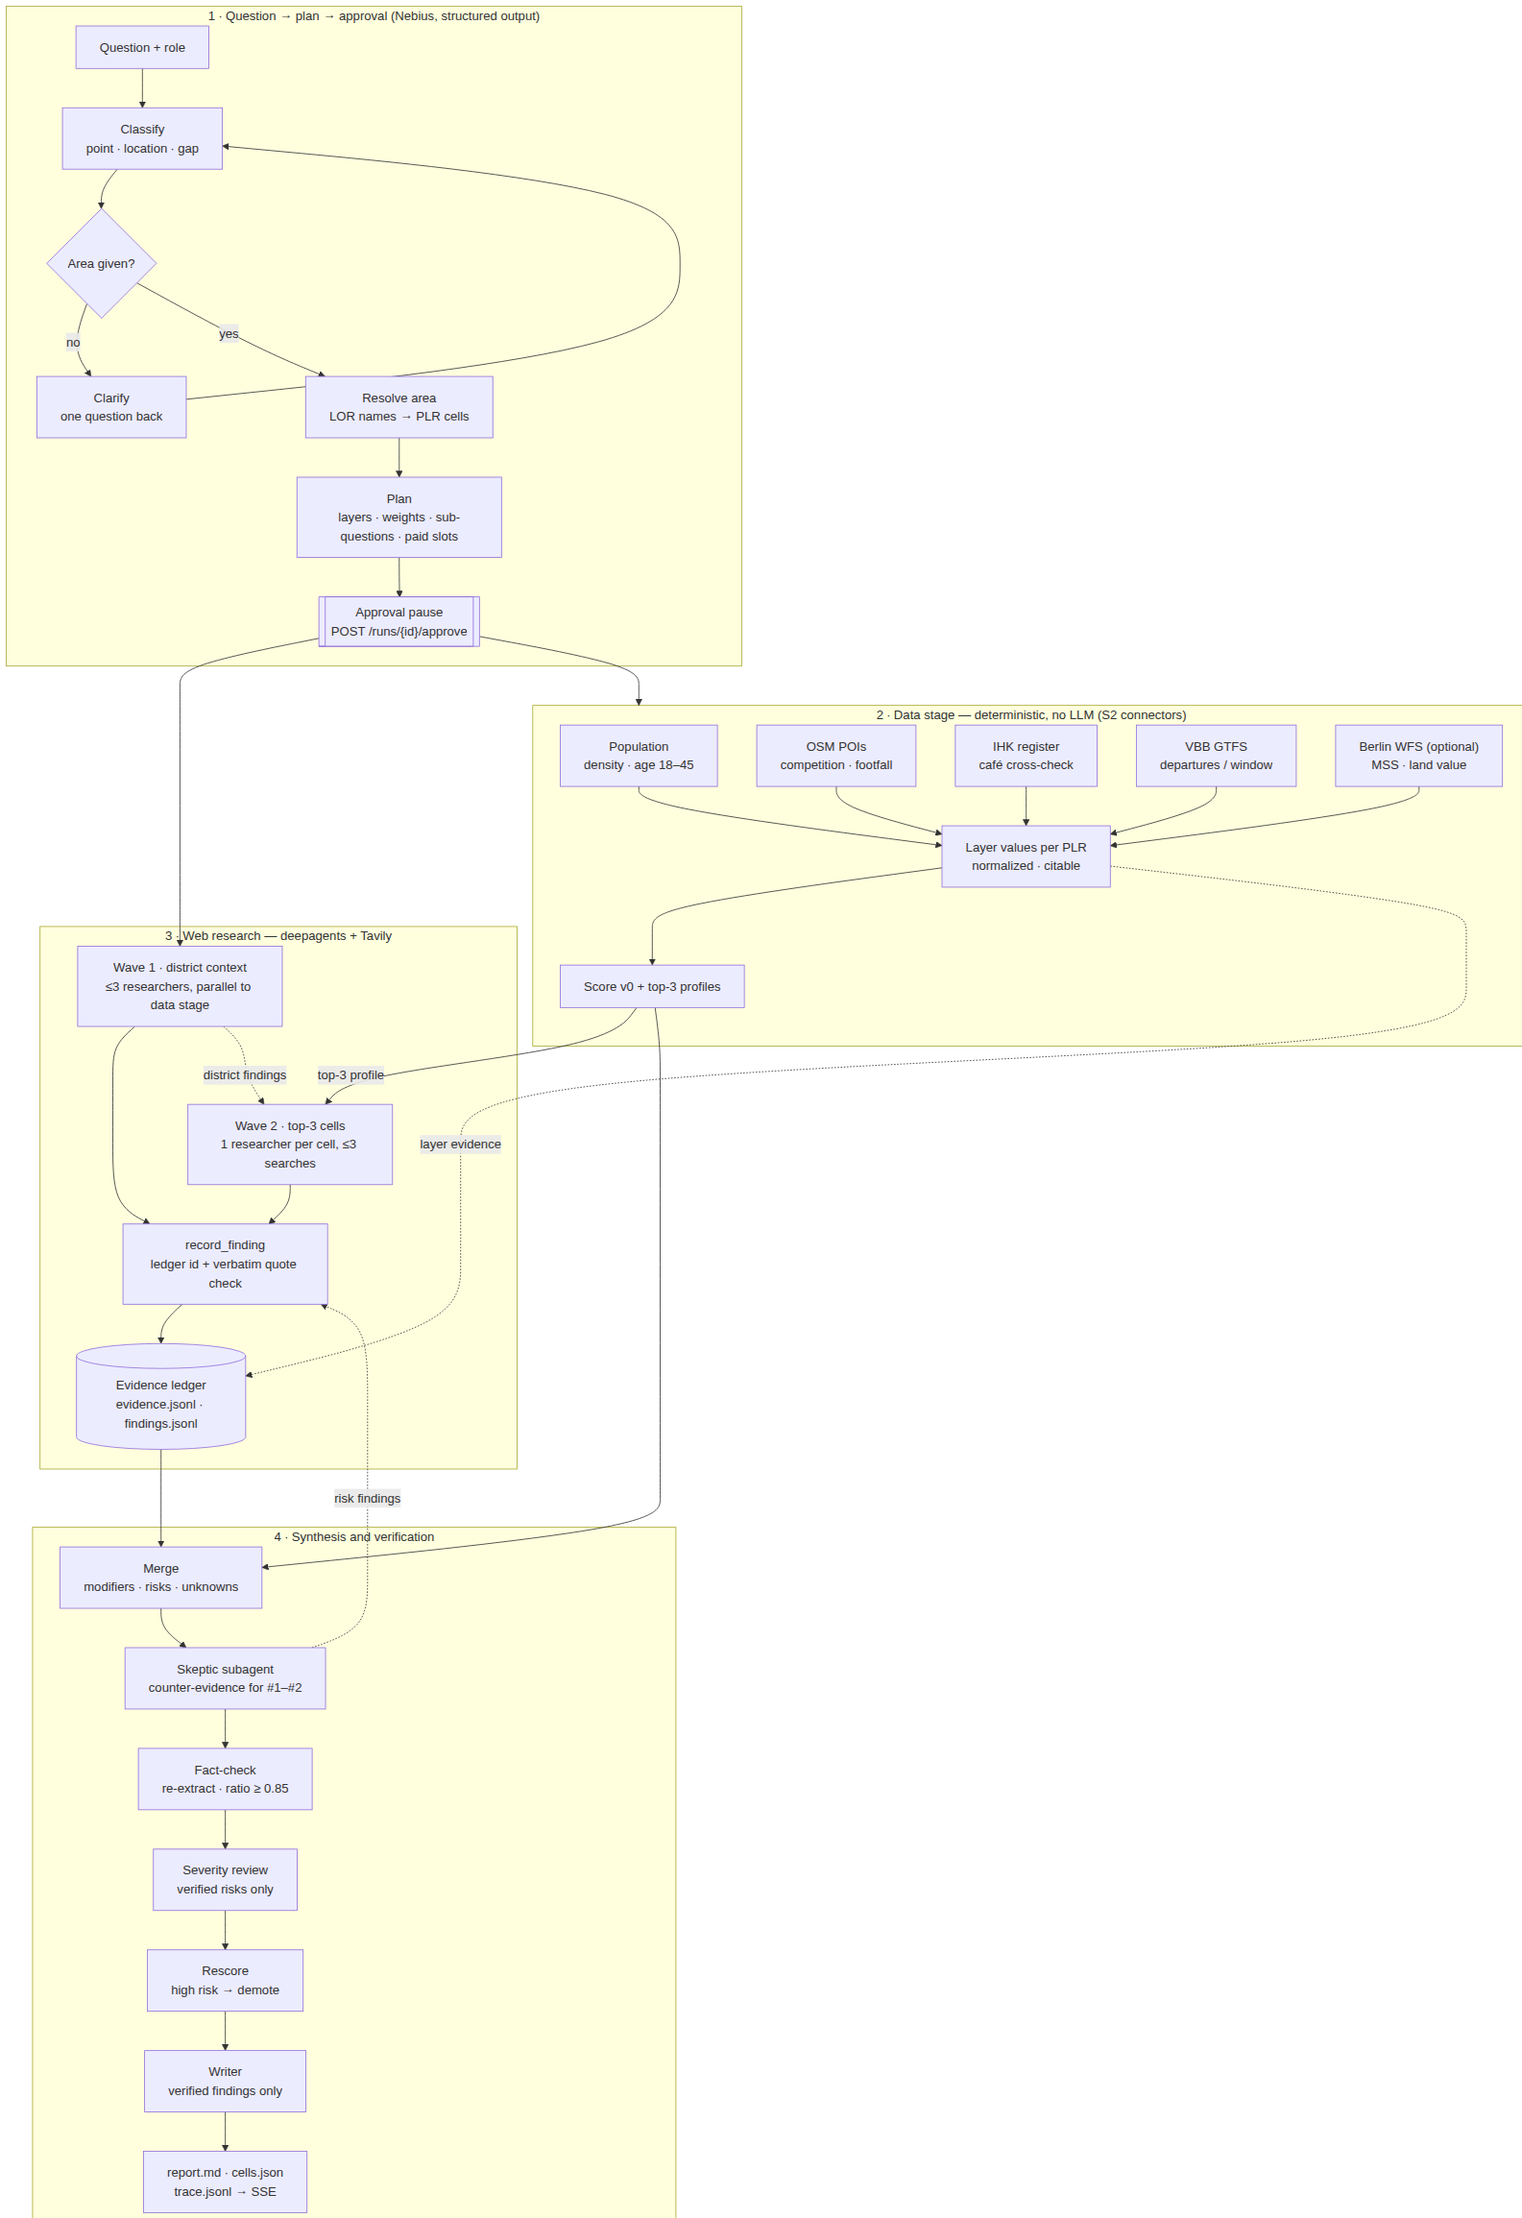
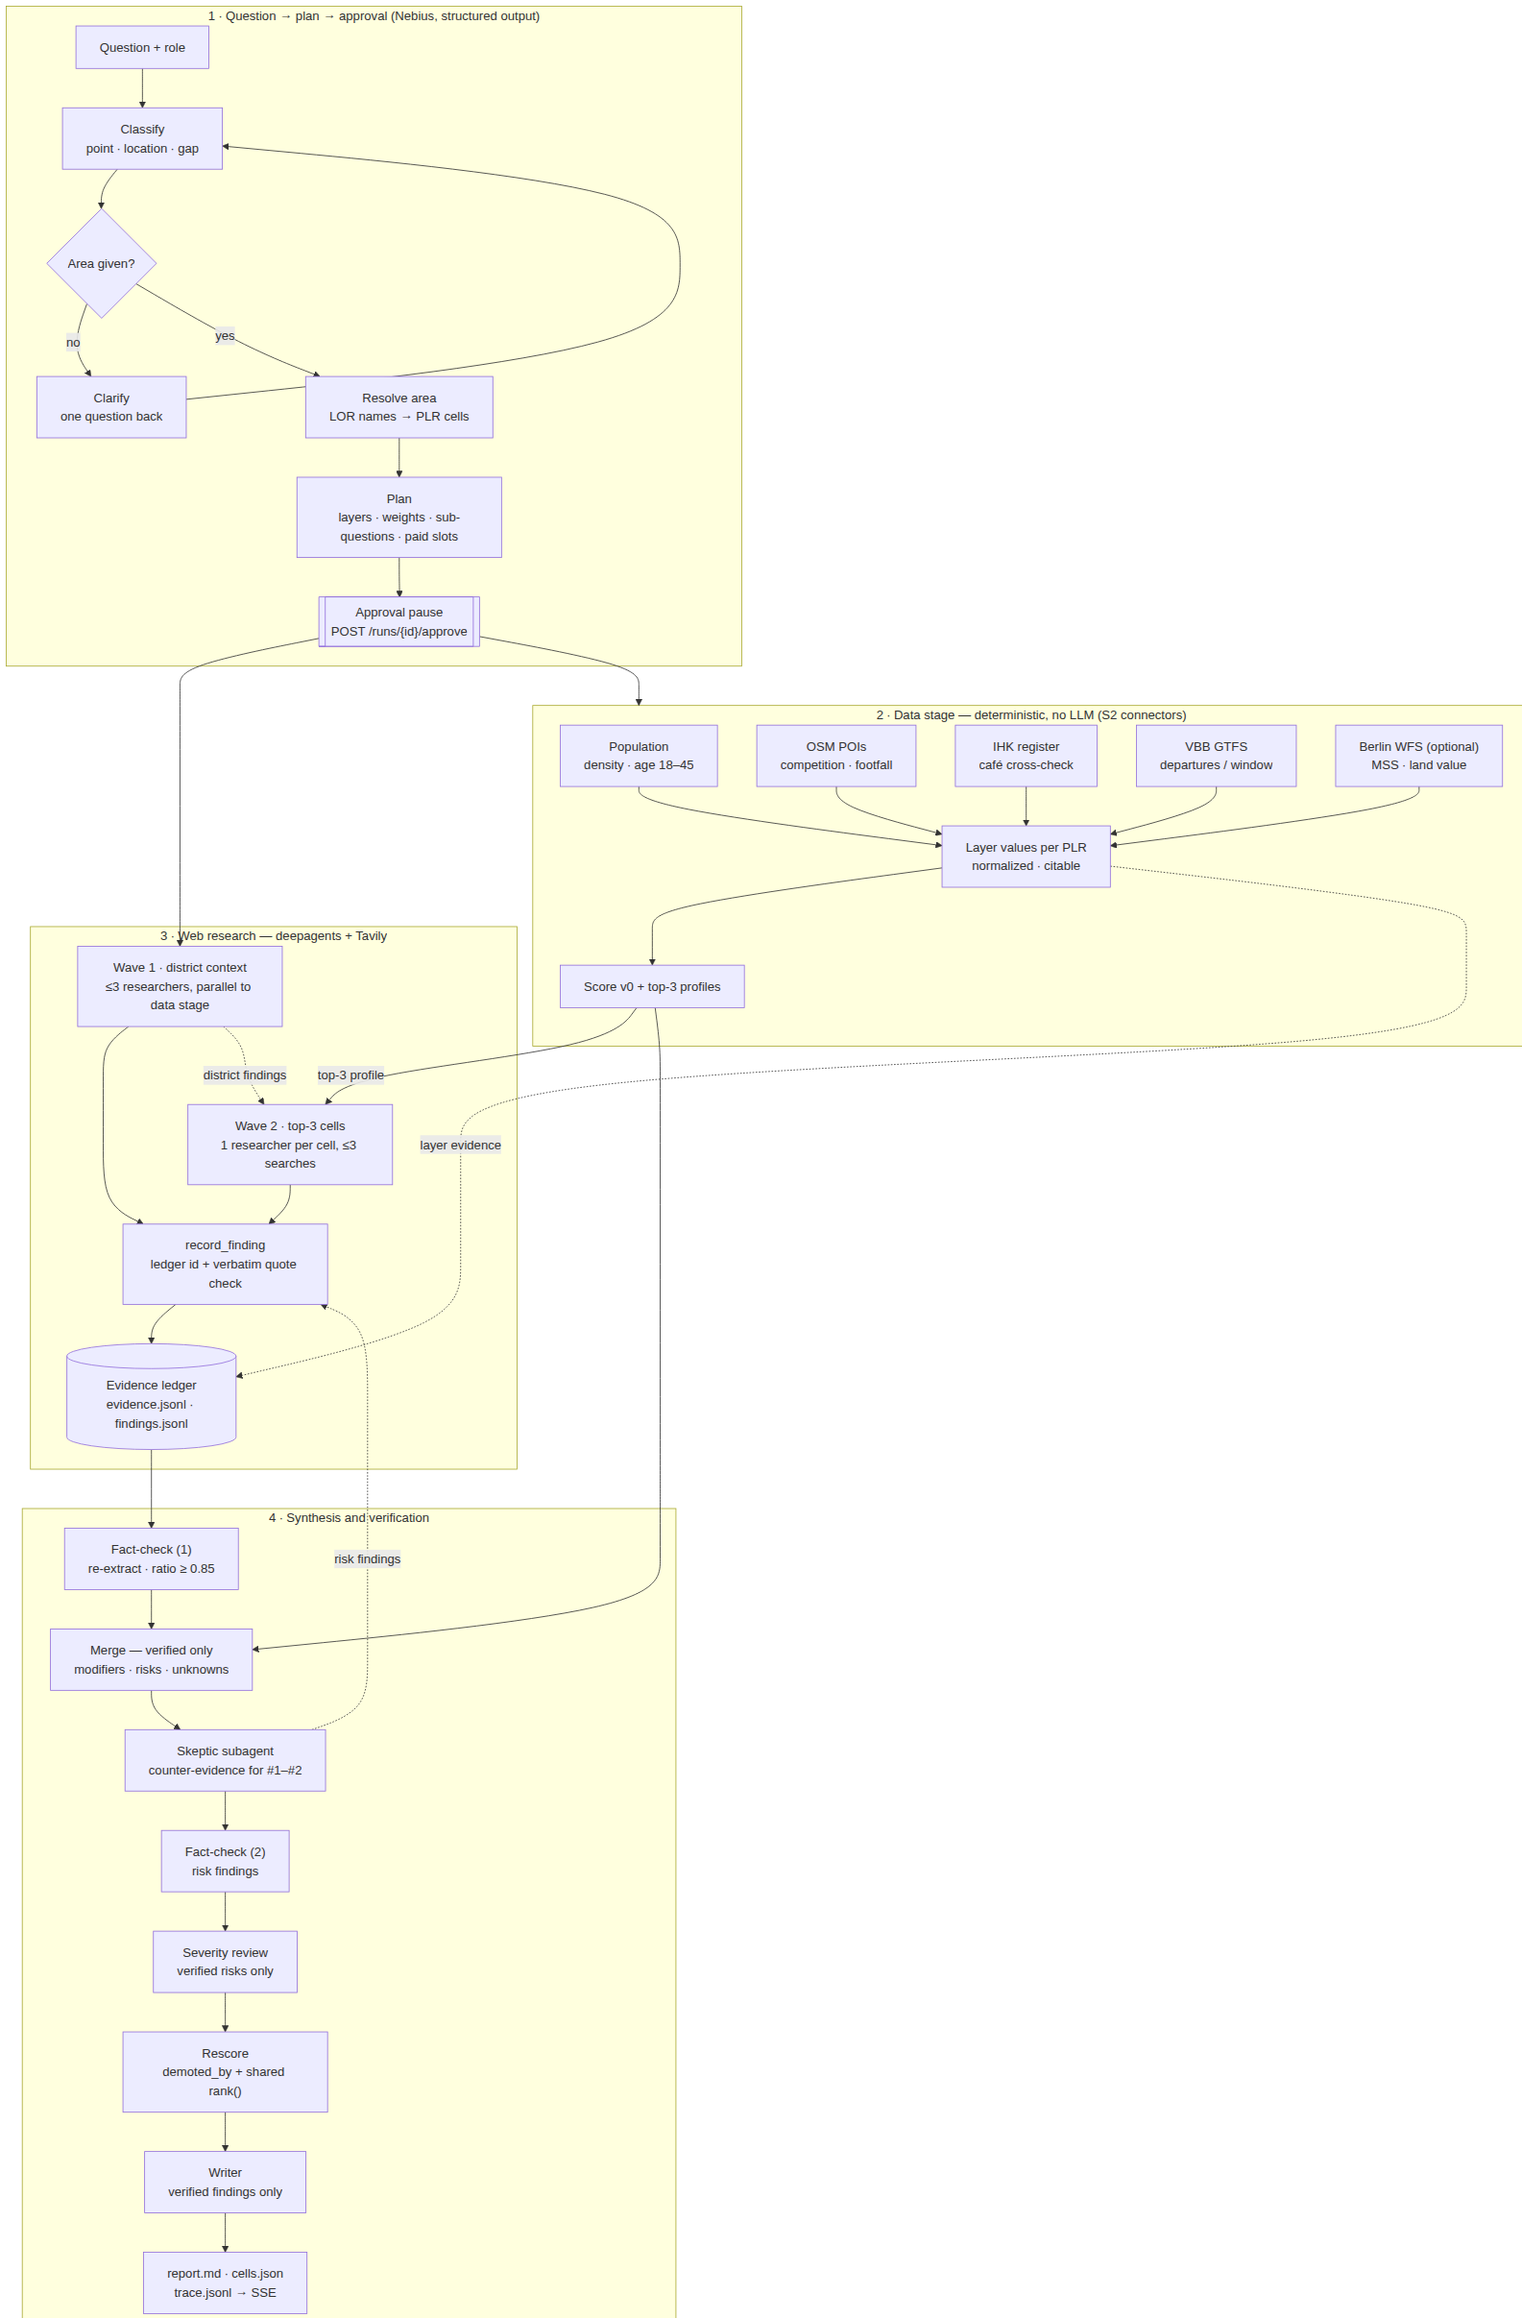
docs: address review — run tokens, area correction at approval, untrusted content, merge after fact-check, persistent demotion rule

diff --git a/docs/01_Architecture/Deep_Research_Spec.md b/docs/01_Architecture/Deep_Research_Spec.md
@@ -58,14 +58,14 @@ flowchart TB
     RF --> L[("Evidence ledger")]
   end
   subgraph P4["4 · Synthesis and verification"]
-    M["Merge"] --> SK["Skeptic"] --> FC["Fact-check"] --> RV["Severity review"] --> RS["Rescore"] --> WR["Writer"] --> OUT["report.md · cells.json · trace"]
+    FC1["Fact-check findings"] --> M["Merge (verified only)"] --> SK["Skeptic"] --> FC2["Fact-check risks"] --> RV["Severity review"] --> RS["Rescore"] --> WR["Writer"] --> OUT["report.md · cells.json · trace"]
   end
   AP --> P2
   AP --> W1
   SC -- "top-3 profile" --> W2
   W1 -. "district findings" .-> W2
   LV -. "layer evidence" .-> L
-  L --> M
+  L --> FC1
   SC --> M
   SK -. "risk findings" .-> RF
 ```
@@ -83,29 +83,32 @@ flowchart TB
 | 5 Data stage | S2 snapshots | layer values per PLR, normalization, score v0, OSM↔IHK cross-check | top-3 profiles → wave 2; layers → ledger; `cells.json` | no |
 | 6a Wave 1 | sub-questions + PLR list | search → extract → `record_finding` | future / risk / fact findings → merge, wave 2 | yes, agent |
 | 6b Wave 2 | top-3 profile + wave-1 findings | targeted neighbourhood research | confirms / contradicts data → merge | yes, agent |
-| 7 Merge | findings + cell values | modifiers, risks, unknowns (rules §7) | `score_future`, skeptic target | no |
-| 8 Skeptic | #1–#2 with evidence | counter-evidence search | risk findings → fact-check | yes, agent |
-| 9 Fact-check | all findings | re-extract, quote ratio ≥ 0.85; recompute layers from snapshot | only `verified` → review, writer | no |
-| 10 Severity review | verified risks | severity high/medium/low with ledger ids | rescore | yes, structured |
-| 11 Rescore | severities | high → demote one place | final ranking, `rescore` event | no |
-| 12 Writer | verified findings + cells | summary + per-cell reasons | `report.md`, dashboard | yes, structured |
+| 7 Fact-check (1) | wave-1/2 findings + dataset entries | re-extract, quote ratio ≥ 0.85; recompute layers from snapshot | only `verified` → merge | no |
+| 8 Merge | **verified** findings + cell values | modifiers, risks, unknowns (rules §5.4); `build_cells` | `cells.json` v1, skeptic target | no |
+| 9 Skeptic | #1–#2 of v1 with evidence | counter-evidence search | risk findings → fact-check (2) | yes, agent |
+| 10 Fact-check (2) | skeptic risk findings | same as (1) | verified risks → review | no |
+| 11 Severity review | verified risks | severity high/medium/low with ledger ids | rescore | yes, structured |
+| 12 Rescore | severities | `demoted_by` on the cell, deterministic rank rule (§5.5) | `cells.json` final, `rescore` event | no |
+| 13 Writer | verified findings + final cells | summary + per-cell reasons | `report.md`, dashboard | yes, structured |
 
 ## 4. Run lifecycle and HTTP API
 
 ```text
 created → classifying → (needs_clarification ↺) → planning → awaiting_approval
-        → approved → researching{data, wave1, wave2} → reviewing{merge, skeptic, factcheck, review, rescore}
+        → approved → researching{data, wave1, wave2} → reviewing{factcheck, merge, skeptic, factcheck_risks, review, rescore}
         → writing → done
 any state → failed (error event with reason) | cancelled
 ```
 
 | Endpoint | Request | Response |
 |---|---|---|
-| `POST /research` | `{question, role?, template_hint?}` | `{run_id, status}`; status is `needs_clarification` (with `clarify_question`) or `awaiting_approval` (with `plan`) |
+| `POST /research` | `{question, role?, template_hint?}` | `{run_id, run_token, status}`; status is `needs_clarification` (with `clarify_question`) or `awaiting_approval` (with `plan`) |
 | `POST /runs/{id}/clarify` | `{answer}` | same as above (re-classify with the answer) |
-| `POST /runs/{id}/approve` | `{subquestions?, layers?: [{id, enabled, weight}], wave2?: bool}` | `{status: "approved"}`; 409 if not `awaiting_approval`; 422 on schema violation (unknown layer id, weight outside 0–1, > 3 sub-questions) |
+| `POST /runs/{id}/approve` | `{area?: {name}, subquestions?, layers?: [{id, enabled, weight}], wave2?: bool}` | `{status: "approved"}`; if `area` differs from the resolved area: re-resolve, regenerate the plan and return `{status: "awaiting_approval", plan}` (a second approve is needed); 409 if not `awaiting_approval`; 422 on schema violation (unknown layer id, weight outside 0–1, > 3 sub-questions, unresolvable area) |
 | `GET /runs/{id}/events` | — | SSE stream of events (§9.1); replays from `trace.jsonl`, supports `Last-Event-ID` = `seq` |
 | `GET /runs/{id}/result` | — | `{status, report_md, cells, evidence, findings, metrics}` once `done`; 202 before |
+
+**Access:** `run_id` is a random UUID4 and is not a credential. `POST /research` also returns a random `run_token`; every `/runs/{id}/…` endpoint requires it as `Authorization: Bearer <run_token>` (SSE: `?token=` query parameter, since `EventSource` cannot set headers) and answers 404 on a missing or wrong token, so run ids neither grant access nor reveal that a run exists. The token is stored hashed in the run directory. There are no user accounts in the hackathon scope; the token binds a run to the client that created it.
 
 `/clarify` is new compared to `Execution_Plan.md` (the clarify step needs a way back in). Runs are stored in `runs/<run_id>/`; a run is restartable from any completed stage because every stage writes its artifact before the next one starts.
 
@@ -114,7 +117,7 @@ any state → failed (error event with reason) | cancelled
 ### 5.1 Classify, clarify, resolve area, plan
 
 - One `NebiusGateway.plan` call each for classify and plan, with Pydantic output models (`research_outputs.py`). Each output carries a `why` that is emitted as an event.
-- Area resolution is deterministic against `berlin_lor_names` (S2). Ambiguous names (e.g. "Kreuzberg" = Ortsteil vs. "Friedrichshain-Kreuzberg" = Bezirk) resolve to the smallest matching unit; the plan shows what was resolved so the user can correct it at approval.
+- Area resolution is deterministic against `berlin_lor_names` (S2). Ambiguous names (e.g. "Kreuzberg" = Ortsteil vs. "Friedrichshain-Kreuzberg" = Bezirk) resolve to the smallest matching unit; the plan shows what was resolved (name, level, PLR count) so the user can correct it via `approve.area`, which re-resolves the area and regenerates the plan before research starts.
 - The plan only proposes layers for which `DataPort.available_layers` returns a snapshot. Template layer catalog for T2 coffee:
 
 | Layer id | Source (S2) | Computation per PLR | Direction | Default weight |
@@ -154,8 +157,13 @@ Each researcher gets the PLR list (`id`, `name`, Ortsteil) to localize findings.
 | Tool | Contract |
 |---|---|
 | `web_search(query, why, include_domains?, topic?)` | Tavily search via PR #6 client; stores every result as `WebEvidence`; returns compact JSON `[{evidence_id, title, url, snippet, published_date}]` |
-| `extract_page(evidence_id, why)` | Tavily extract for a known evidence id; stores passage; returns the passage (truncated) |
+| `extract_page(evidence_id, why)` | Tavily extract for a known evidence id only (the agent cannot pass arbitrary URLs); stores passage; returns the passage (truncated, wrapped as untrusted content, see below) |
 | `record_finding(claim, quote, evidence_ids, claim_type, localization?, why)` | accepts only if every id exists and the quote is in the stored text (exact after whitespace normalization, or fuzzy ratio ≥ 0.85 on a bounded window); returns `{finding_id}` or an error string with the reason |
+
+**Untrusted content.**
+- *URLs:* every URL (search result, extract, fact-check re-extract) goes through the PR #6 `TavilyClient` URL policy: http(s) only, no credentials in URLs, hostname resolved and rejected if any address is private, loopback, link-local, multicast, reserved or unspecified (IPv4-mapped IPv6 included). The fetch itself is done by Tavily, not by our backend; the check also protects any later direct fetch.
+- *Page text:* extracted text is data, never instructions. Tools return it inside `<untrusted_source evidence_id="…">…</untrusted_source>` with tag-like sequences escaped. The system prompts state that instructions inside sources are ignored.
+- *Blast radius:* agents have no tools beyond search, extract and record, all budgeted. No secrets or file system access are in the agent context. A finding only survives if its quote is verbatim in the source. The writer never sees raw page text, only verified findings (claim + quote + ids).
 
 `claim_type ∈ {fact, estimate, opinion, future, risk}`. `localization ∈ {plr:<id>, ortsteil:<name>, address:<text>, district}`; `address` only if the page states it.
 
@@ -167,30 +175,41 @@ Each researcher gets the PLR list (`id`, `name`, Ortsteil) to localize findings.
 
 ### 5.4 Merge (deterministic)
 
+Merge runs **after** fact-check (1) and only reads findings with `verification = verified` (for `partial`, only the matching evidence ids). Unverified claims therefore never reach modifiers, risks, unknowns or scores.
+
 - `future` findings localized to a PLR → modifier `{type: "future", bonus: 0.10, magnitude?}` on that cell; `magnitude` only if the quote contains a number. Ortsteil-level findings apply to all PLR of that Ortsteil; district-level ones go into the report context only.
 - `risk` findings → `risks[]` on the cell (severity assigned later).
 - A web finding that contradicts a layer (e.g. "café scene saturated" for a low-competition cell) → `unknowns[]` with a validation suggestion.
-- `score_future` is recomputed by S2 `build_cells`.
+- `score_future` is recomputed by S2 `build_cells` → `cells.json` v1. Final `cells.json` is rebuilt after rescore from verified findings only.
 
 ### 5.5 Skeptic (E4 = C, pending confirmation)
 
 1. **Collect**: skeptic subagent with an adversarial prompt, run for #1 and #2: closures, rent jumps, saturation, construction sites, new chains, policy restrictions. Same tools, budget 3 searches per cell, findings with `claim_type="risk"`.
-2. **Verify**: risk findings go through the fact-check like all others.
+2. **Verify**: fact-check (2) runs on the risk findings with the same rules as fact-check (1).
 3. **Judge**: one `NebiusGateway.review` call over the verified risks per cell → `[{finding_id, severity: high|medium|low, rationale}]`. Only ledger ids of verified findings are allowed; others are dropped.
-4. **Rescore**: a cell with ≥ 1 verified `high` risk drops one place; emits `rescore` with the reason. At most one demotion per cell.
+4. **Rescore**: a cell with ≥ 1 verified `high` risk gets `"demoted_by": ["f_…"]` in `cells.json`; emits `rescore` with the reason. Scores stay unchanged, so the demotion is a persistent rank rule rather than a one-off reorder:
+   ```text
+   rank(cells):  order = sort by score desc (score_present or score_future per mode)
+                 for cell in order (top to bottom, original positions):
+                     if cell.demoted_by and cell is not last: swap cell with its current successor
+   ```
+   Each demoted cell moves down at most one place; two adjacent demoted cells keep their relative order. S2 implements `rank()` next to `build_cells`; S3 applies the same function after every layer/weight/mode change, so writer, report and dashboard always show the same ranking. The heatmap colour still uses the raw score; the top-3 list shows a "risk" badge linking to the finding.
 
 The skeptic should use a different model family than the researchers. Fallback (`SKEPTIC_MODE=review`): skip step 1, run step 3 over existing risk findings.
 
 ### 5.6 Fact-check (deterministic)
 
+Runs twice: (1) on all research findings and dataset entries before merge, (2) on skeptic risk findings before the severity review.
+
 - For every finding: re-extract each cited URL (Tavily extract, cached per run), match the quote with the same matcher as `record_finding`. Status: `verified` (all ids match), `partial` (some match), `unsupported` (none).
 - `unsupported` findings are excluded from writer input and listed in the report appendix "Could not verify". `partial` findings keep only the matching evidence ids.
 - Dataset ledger entries are verified by recomputing the layer from the snapshot.
 - Output: `factcheck.json`, `fact_check` events.
+- Re-extract results are cached per URL and run, so fact-check (2) only fetches new URLs.
 
 ### 5.7 Writer
 
-- One `NebiusGateway.synthesize` call. Input: verified findings, final cells (top-3 with values, modifiers, risks, unknowns), the plan. Output model: summary (3–6 sentences), per top-3 cell 2–4 reasons, risks, unknowns, each sentence with `claim_type` and `evidence_ids`.
+- One `NebiusGateway.synthesize` call. Input: verified findings (no raw page text), final cells (top-3 with values, modifiers, risks, unknowns), the plan. Output model: summary (3–6 sentences), per top-3 cell 2–4 reasons, risks, unknowns, each sentence with `claim_type` and `evidence_ids`.
 - Post-processing: drop any sentence whose ids are not in the verified set; render `report.md` with `[n]` citations mapped to ledger ids.
 
 ## 6. T1 / T3
@@ -292,7 +311,7 @@ Token volume (0.8–1.5 M per run) is dominated by researchers re-reading extrac
 2. OSM↔IHK cross-check threshold (`max/min > 2`, both ≥ 3).
 3. Default layer weights for T2 (§5.1) — S2 may want to own them.
 4. Wave-2 trigger: top-3 by score v0 or by `score_future` after wave 1?
-5. `POST /runs/{id}/clarify` as an addition to the frozen API.
+5. `POST /runs/{id}/clarify`, `approve.area`, `run_token` and `cells[].demoted_by` + shared `rank()` as additions to the frozen contracts (the last one needs S2 and S3 sign-off).
 6. Budgets (§5.3) vs. the demo time slot.
 
 ## 12. Risks
